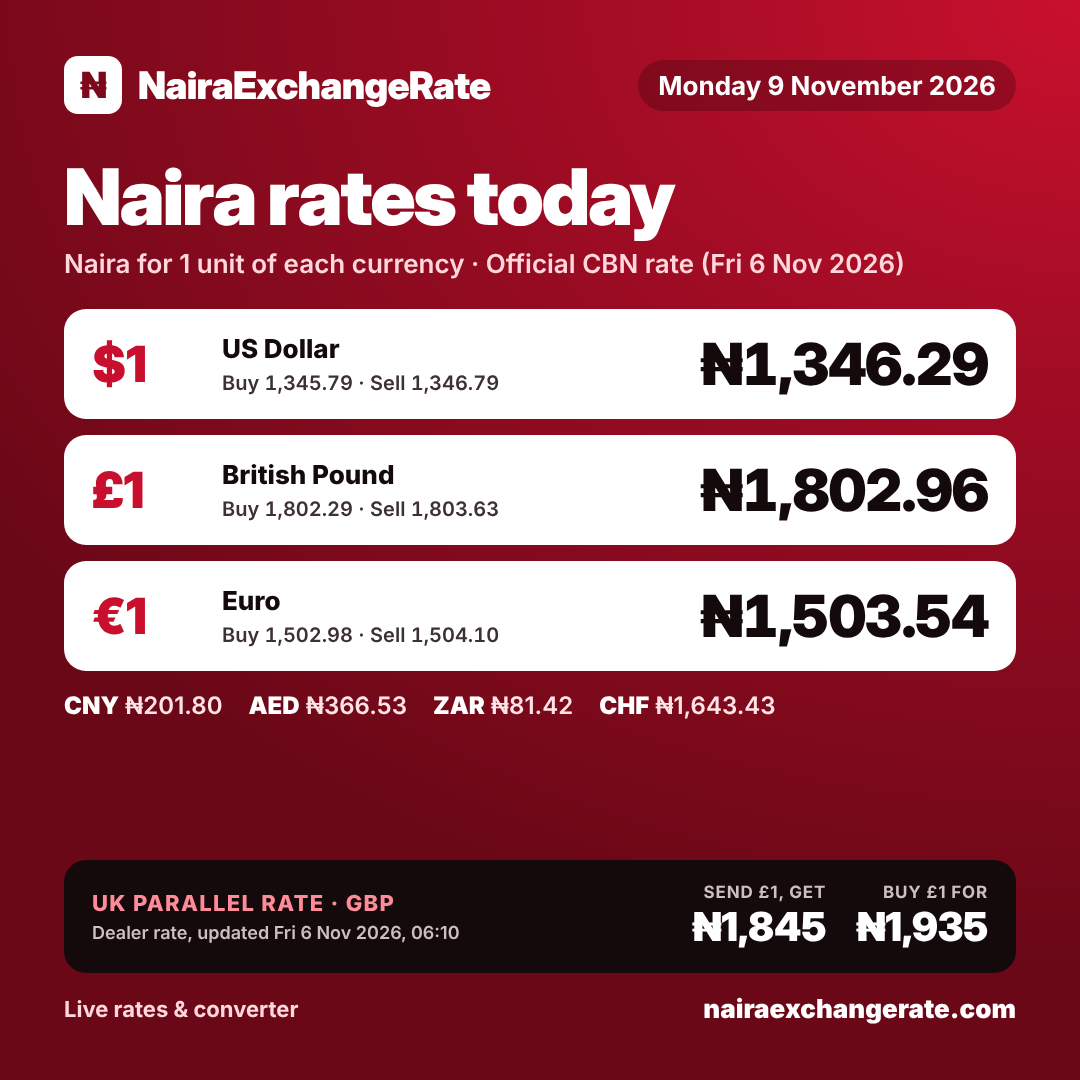
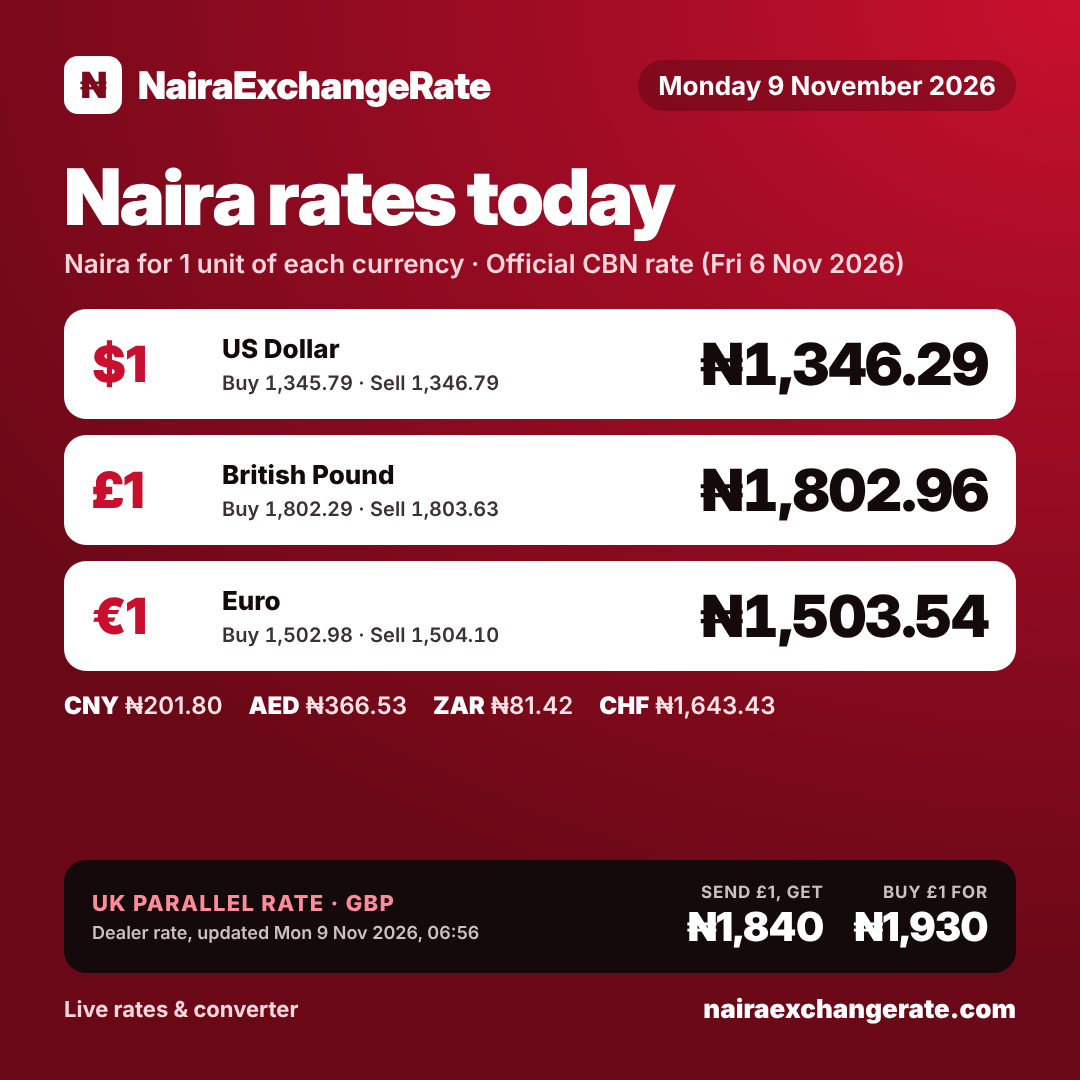
UK parallel rate 2026-11-09
Claude-Session: https://claude.ai/code/session_01NfXuJx1mXvVuyF1cLZ3JeK

Changed region(s): [[0.6417, 0.7944, 0.7639, 0.8861], [0.7944, 0.825, 0.9167, 0.8861], [0.2444, 0.8556, 0.4583, 0.8861]]

diff --git a/index.html b/index.html
@@ -255,9 +255,9 @@ footer .wrap{padding-block:22px 34px;font-size:.84rem;color:var(--muted);display
   },
   "parallel": {
     "label": "UK dealer rate",
-    "send": 1845.0,
-    "buy": 1935.0,
-    "updated": "2026-11-06T06:10",
+    "send": 1840.0,
+    "buy": 1930.0,
+    "updated": "2026-11-09T06:56",
     "history": [
       {
         "date": "2026-10-31",
@@ -283,6 +283,11 @@ footer .wrap{padding-block:22px 34px;font-size:.84rem;color:var(--muted);display
         "date": "2026-11-06",
         "send": 1845.0,
         "buy": 1935.0
+      },
+      {
+        "date": "2026-11-09",
+        "send": 1840.0,
+        "buy": 1930.0
       }
     ]
   },
